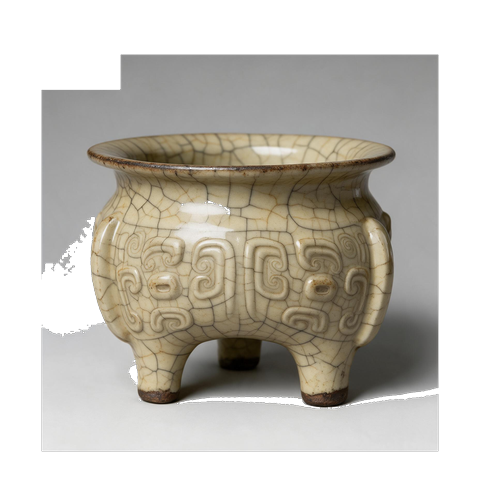
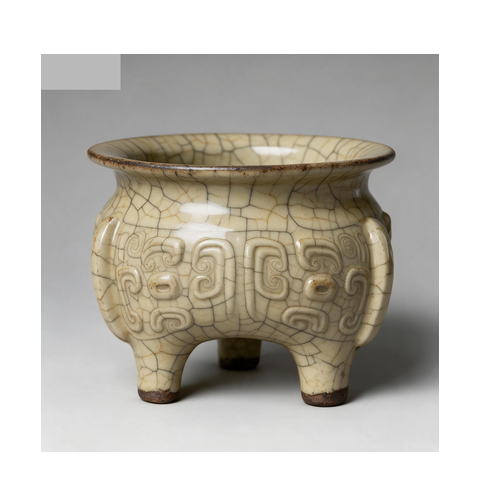
fix(art): re-ingest Ge crackle 1010 with watermark-only pipeline
#1126 ran default chroma cutout on flat Jimeng sources and mangled previews.
Add optional --watermark-only, fix ingest repo root path, refresh ten previews,
and document R2 hd-g1/g2 overwrite.

diff --git a/focus-tiger/scripts/process-art-collection-ingest.py b/focus-tiger/scripts/process-art-collection-ingest.py
@@ -35,10 +35,7 @@ def _subject_mask(rgb: np.ndarray, bg: np.ndarray) -> np.ndarray:
     diff = np.sqrt(np.sum((rgb.astype(np.float32) - bg) ** 2, axis=2))
     mask = diff > 20
 
-    # Top-left AI watermark band
-    watermark = np.zeros((h, w), dtype=bool)
-    watermark[: int(h * 0.09), : int(w * 0.2)] = True
-    mask &= ~watermark
+    mask &= ~_watermark_band_shape(h, w)
 
     # Drop isolated specks
     from scipy import ndimage
@@ -46,6 +43,26 @@ def _subject_mask(rgb: np.ndarray, bg: np.ndarray) -> np.ndarray:
     mask = ndimage.binary_opening(mask, iterations=1)
     mask = ndimage.binary_closing(mask, iterations=2)
     return mask
+
+
+def _watermark_band_shape(h: int, w: int) -> np.ndarray:
+    band = np.zeros((h, w), dtype=bool)
+    band[: int(h * 0.09), : int(w * 0.2)] = True
+    return band
+
+
+def ingest_master_watermark_only(src: Path) -> Image.Image:
+    """Keep Jimeng flat background; paint over top-left AI watermark with corner bg."""
+    im = Image.open(src).convert("RGBA")
+    arr = np.array(im)
+    rgb = arr[:, :, :3].copy()
+    h, w = rgb.shape[:2]
+    bg = _corner_bg(rgb)
+    rgb[_watermark_band_shape(h, w)] = bg.astype(np.uint8)
+    out = np.zeros((h, w, 4), dtype=np.uint8)
+    out[:, :, :3] = rgb
+    out[:, :, 3] = 255
+    return Image.fromarray(out)
 
 
 def ingest_master(src: Path) -> Image.Image:
@@ -92,8 +109,14 @@ def to_preview(master: Image.Image, size: int = PREVIEW_SIZE) -> Image.Image:
     return canvas
 
 
-def process_file(src: Path, preview_out: Path, master_out: Path | None = None) -> None:
-    master = ingest_master(src)
+def process_file(
+    src: Path,
+    preview_out: Path,
+    master_out: Path | None = None,
+    *,
+    watermark_only: bool = False,
+) -> None:
+    master = ingest_master_watermark_only(src) if watermark_only else ingest_master(src)
     preview = to_preview(master)
     preview_out.parent.mkdir(parents=True, exist_ok=True)
     preview.save(preview_out, "PNG", optimize=True)
@@ -109,11 +132,17 @@ def main() -> None:
     parser.add_argument("src")
     parser.add_argument("preview_out")
     parser.add_argument("--master-out")
+    parser.add_argument(
+        "--watermark-only",
+        action="store_true",
+        help="flat background sources: paint over AI watermark only (no chroma cutout)",
+    )
     args = parser.parse_args()
     process_file(
         Path(args.src),
         Path(args.preview_out),
         Path(args.master_out) if args.master_out else None,
+        watermark_only=args.watermark_only,
     )
 
 

diff --git a/focus-tiger/scripts/ingest-ge-crackle-1010.py b/focus-tiger/scripts/ingest-ge-crackle-1010.py
@@ -1,5 +1,10 @@
 #!/usr/bin/env python3
-"""Ingest 哥窑分组1010G1/G2 into edition previews + HD masters (repo root folders)."""
+"""Ingest 哥窑分组1010G1/G2 into edition previews + HD masters (repo root folders).
+
+Sources are Jimeng exports with flat backgrounds (文件名含「去掉背景」). Use
+``--watermark-only`` on the ingest script — chroma cutout fails on Ge crackle glaze.
+After run, upload ``.staging/ge-hd-masters/hd-g*.png`` to R2 ``private/art-hd/``.
+"""
 
 from __future__ import annotations
 
@@ -8,7 +13,7 @@ import sys
 from pathlib import Path
 
 ROOT = Path(__file__).resolve().parents[1]  # focus-tiger/
-REPO = Path(__file__).resolve().parents[3]  # main repo (哥窑分组1010G*)
+REPO = Path(__file__).resolve().parents[2]  # repo root (哥窑分组1010G*)
 INGEST = ROOT / "scripts" / "process-art-collection-ingest.py"
 
 G1 = REPO / "哥窑分组1010G1"
@@ -52,7 +57,15 @@ def run_row(folder: Path, stem: str, set_id: str, sheet_id: str, hd_id: str) -> 
     )
     master = HD_STAGING / f"{hd_id}.png"
     subprocess.run(
-        [sys.executable, str(INGEST), str(src), str(preview), "--master-out", str(master)],
+        [
+            sys.executable,
+            str(INGEST),
+            str(src),
+            str(preview),
+            "--master-out",
+            str(master),
+            "--watermark-only",
+        ],
         check=True,
     )
 

diff --git a/focus-tiger/docs/INFRA_SNAPSHOT.md b/focus-tiger/docs/INFRA_SNAPSHOT.md
@@ -72,7 +72,7 @@
 | 字段 | 值 |
 |---|---|
 | `prod_worker_version` | `2ac135c3-8cf2-4f7e-a6fc-1d6deecf2759` |
-| `prod_verified_at` | 2026-10-11（本机 `wrangler deploy` · 源 `origin/develop` `2fb19eaf` · **#1126** 哥窑 `ge-crackle-1010-g1` / `g2` + `hd-g1-01`…`05` / `hd-g2-01`…`05`（R2 已存）· `POST create-art-collection-checkout-session` → Stripe URL OK · `GET /health` OK）。与 develop 对齐：含 **#1123** 请茶 `hd-tg-01`、**#1124** 磁州窑 `cizhou-red-green-five`、**#1126** 哥窑两套五件。 |
+| `prod_verified_at` | 2026-10-11（本机 `wrangler deploy` · 源 `origin/develop` `2fb19eaf` · **#1126** 哥窑 `ge-crackle-1010-g1` / `g2` + `hd-g1-01`…`05` / `hd-g2-01`…`05`（R2 已存）· `POST create-art-collection-checkout-session` → Stripe URL OK · `GET /health` OK）。与 develop 对齐：含 **#1123** 请茶 `hd-tg-01`、**#1124** 磁州窑 `cizhou-red-green-five`、**#1126** 哥窑两套五件。**2026-10-11 晚**：哥窑 1010 预览与 R2 `hd-g1-*` / `hd-g2-*` 已用「只去水印」重导（见 `fix/ge-crackle-1010-watermark-reingest`），覆盖 #1126 误跑透明抠图版。 |
 
 | 源码 `develop` 有 · 生产 Version **可能未含** | 说明 |
 |---|---|
